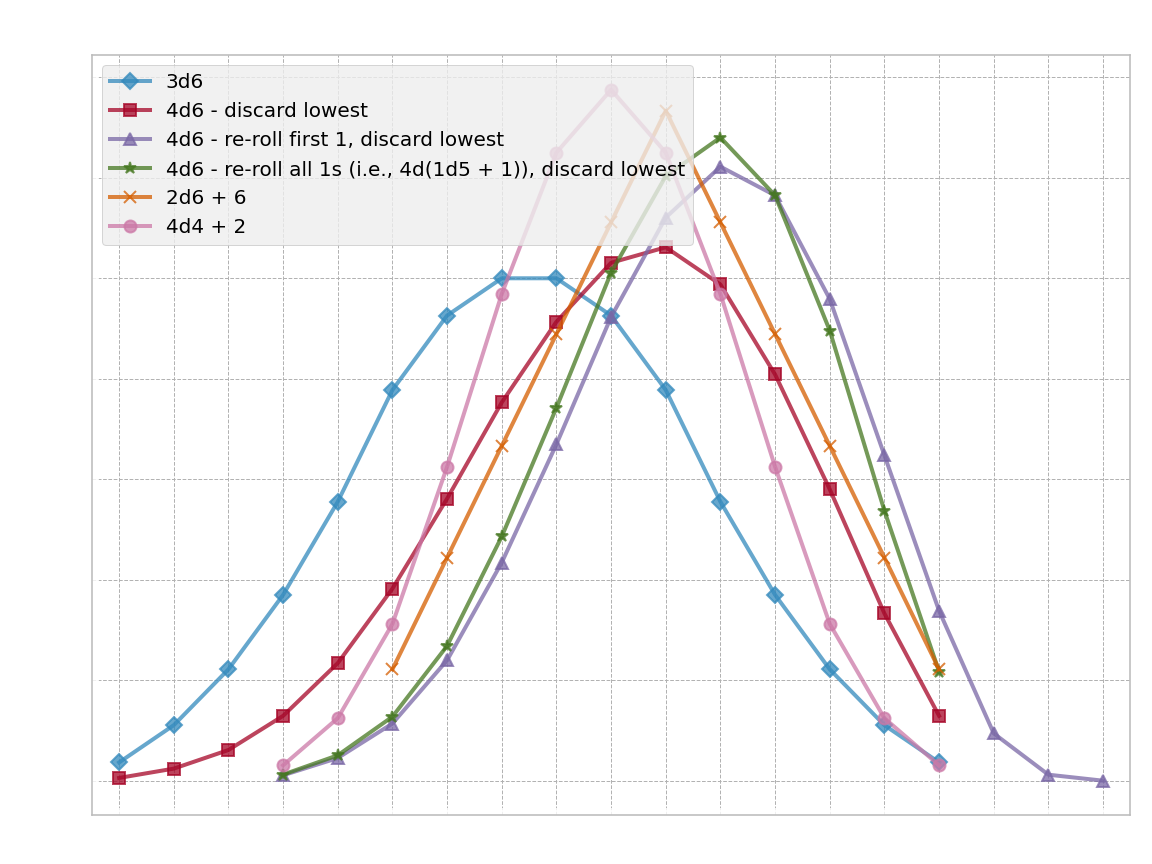
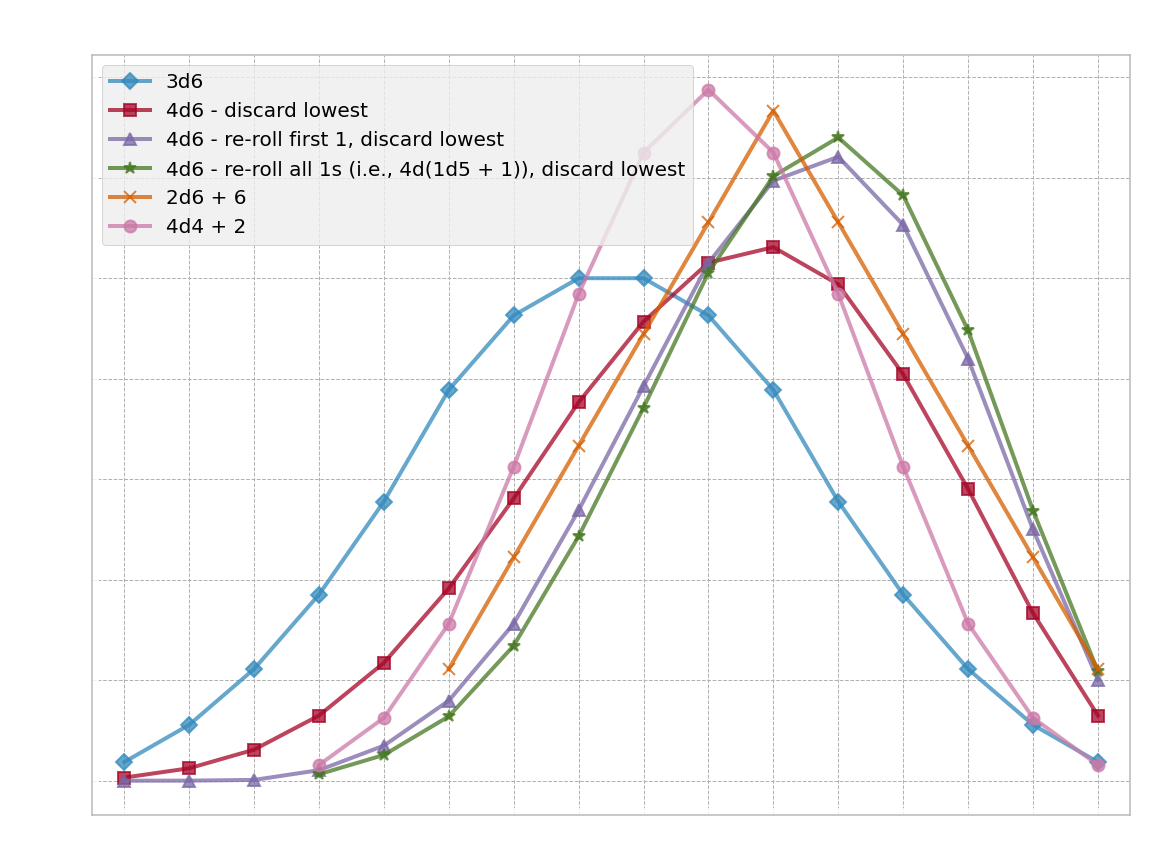
Fix logic error for 4d6 variants example

Changed region(s): [[0.0938, 0.125, 0.9688, 0.9375], [0.5938, 0.0938, 0.625, 0.125]]

diff --git a/docs/assets/plot_4d6_variants.py b/docs/assets/plot_4d6_variants.py
@@ -9,14 +9,17 @@
 from anydyce.viz import plot_line
 
 from dyce import H, P
-from dyce.evaluation import explode
+from dyce.evaluation import foreach
 
 
 def do_it(style: str) -> None:
     import matplotlib.pyplot
 
     p_4d6 = 4 @ P(6)
-    d6_reroll_first_one = explode(H(6), lambda result: result.outcome == 1)
+    d6_reroll_first_one = foreach(
+        lambda h_result: h_result.h if h_result.outcome == 1 else h_result.outcome,
+        h_result=H(6),
+    )
     p_4d6_reroll_first_one = 4 @ P(d6_reroll_first_one)
     p_4d6_reroll_all_ones = 4 @ P(H(5) + 1)
 
@@ -43,7 +46,7 @@ def do_it(style: str) -> None:
         [(label, res) for label, res in attr_results.items()],
     )
 
-    for line, marker in zip(ax.lines, markers):
+    for line, marker in zip(ax.lines, markers, strict=True):
         line.set_marker(marker)
 
     ax.legend()